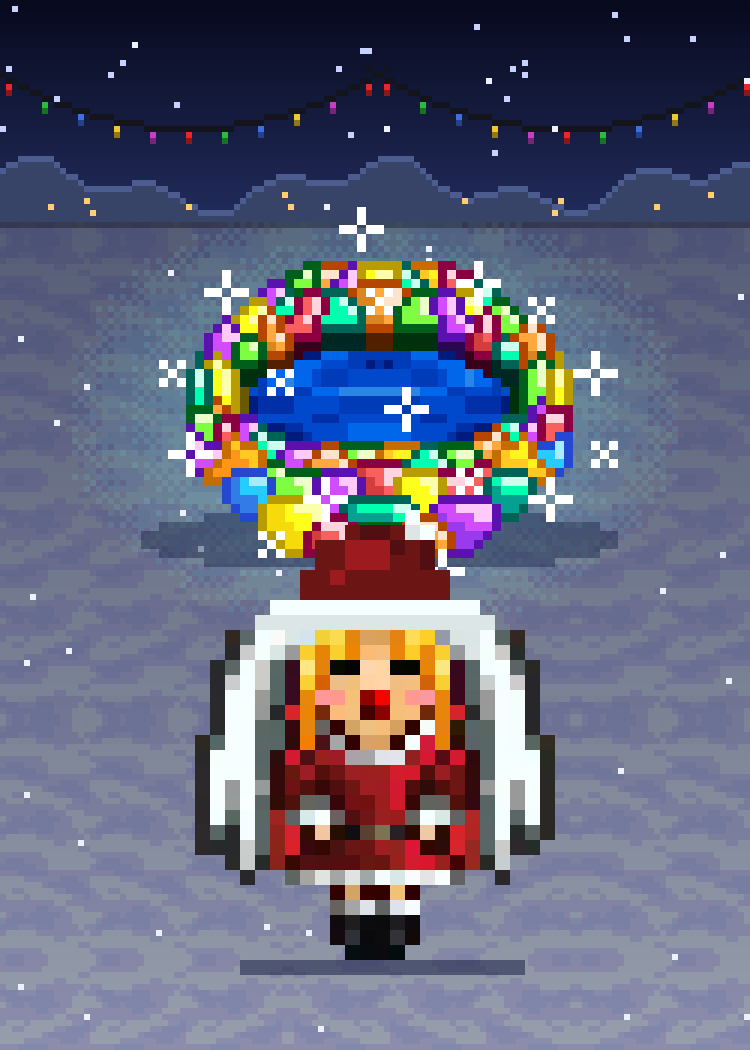
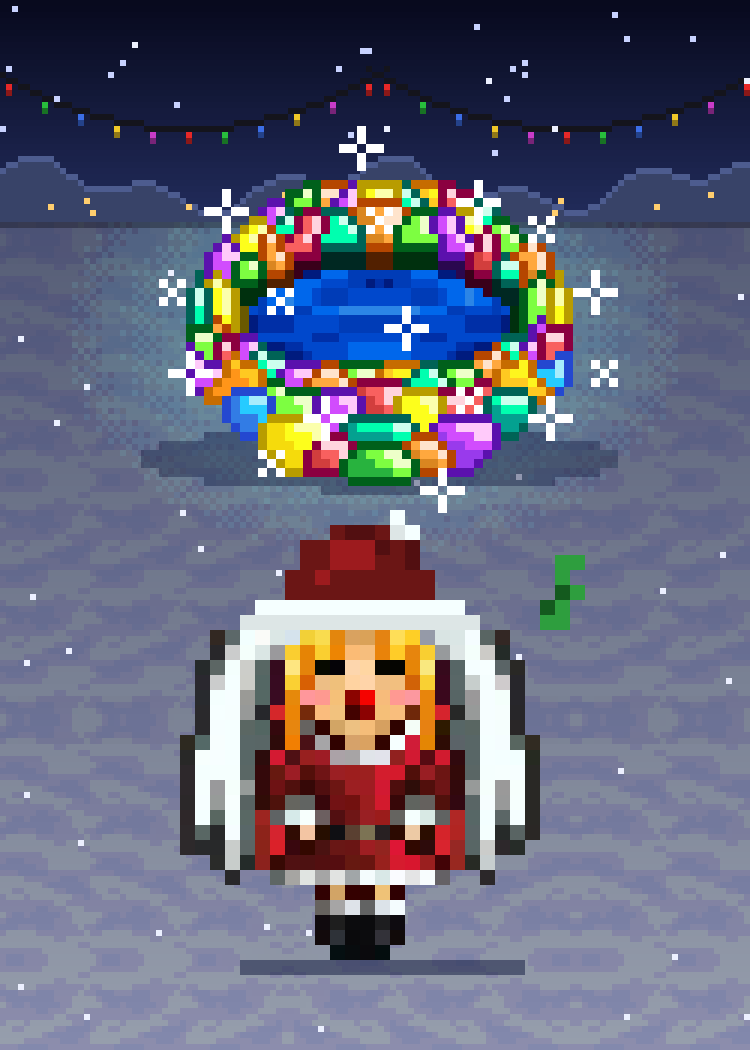
Runde 6: Überarbeitung nach Nutzer-Feedback (Zwischenstand)
Claude-Session: https://claude.ai/code/session_01TEnvTzH2xD44R6Unjv7vDo

Changed region(s): [[0.184, 0.1219, 0.828, 0.9143]]

diff --git a/data/sleeve-proposals/runde6/generator/s43_wheel_of_wisdom.py b/data/sleeve-proposals/runde6/generator/s43_wheel_of_wisdom.py
@@ -14,12 +14,12 @@ Quellen (alle Motive.xcf, Szene der Karte „Archibald, the Archmage“ = Sichtb
             439 „Archmage #1“ (Ring mit fünf Speichen) – die Rosette.
   Ebene 438 „Archmage #6“ – die fünf Gestalten, die auf der Karte (vergrößert, halbtransparent) in den fünf
             Feldern erscheinen; hier im Raster der Rosette, zu 85 % über das Glas gemalt.
-  Sichtbar #43 (Ebene 98), Ausschnitt x 240–256, y 184–200: Parkettkachel der Halle (16×16, periodisch).
-Selbst gezeichnet: Mauer der Halle, steinerne Fensterlaibung, Lichtschein, farbiger Lichtfleck am Boden,
+  Sichtbar #43 (Ebene 98), Ausschnitt x 240–256, y 184–200: Parkett der Halle – daraus die Farben der Dielen.
+Selbst gezeichnet: Mauer der Halle, steinerne Fensterlaibung, Dielenboden, farbiger Lichtfleck am Boden,
 Hinterleuchtung der Glasfelder, Kontaktschatten.
 
 Skalierung (Tiefenebenen):
-  Hintergrund (Mauer, Rosette 76×76 → 152×152, fünf Gestalten, Lichtschein)    – 2×-Raster (125×175)
+  Hintergrund (Mauer, Rosette 76×76 → 152×152, fünf Gestalten)                – 2×-Raster (125×175)
   Vordergrund (Archibald 25×31 → 125×155, Parkett, Lichtfleck)                 – 5×-Raster (50×70)
 """
 import math
@@ -89,17 +89,21 @@ dark_vignette(bg, strength=0.55, r0=0.3, cx=RCX, cy=RCY + 20)
 
 # Farben der fünf Felder (für den Lichtfleck am Boden)
 BEAMS = [((200, 200, 210), 0), ((230, 120, 60), 0), ((220, 70, 50), 0), ((70, 110, 200), 0), ((110, 200, 150), 0)]
-# weicher Lichtschein des Glases auf der Wand darunter
-glow(bg, RCX, RCY + R + 6, 34, (150, 120, 190), 0.25, ry=14, steps=2)
 
 # ================================================================== Vordergrund 5× (50×70)
 w5, h5 = grid(5)
 fg = rgba(w5, h5)
 FLOOR = 60                                   # Oberkante des Bodens (y 300)
-T = np.clip(tile[..., :3].astype(float) * 0.85, 0, 255).astype(np.uint8)   # Parkett, im Dämmer der Halle
+# Boden: dunkle Dielen in den Farben des Hallenparketts (Kachel aus der Szene: Mittelwert und Fugenfarbe)
+base = tile[..., :3].reshape(-1, 3).astype(float)
+c_mid = base.mean(0) * 0.9
+c_dark = base.min(0) * 0.8
+c_lite = np.clip(base.mean(0) * 1.15, 0, 255)
 for y in range(FLOOR, h5):
     for x in range(w5):
-        fg[y, x, :3] = T[(y - FLOOR) % 16, (x + 5) % 16]
+        r = y - FLOOR
+        seam = (r % 3 == 2) or ((x + (r // 3) * 5) % 9 == 0)
+        fg[y, x, :3] = (c_dark if seam else (c_lite if r % 3 == 0 else c_mid)).astype(np.uint8)
         fg[y, x, 3] = 255
 for x in range(w5):                          # Übergang Wand/Boden: Sockelleiste
     fg[FLOOR, x, :3] = (22, 16, 30)

diff --git a/data/sleeve-proposals/runde6/generator/s12_crystal_eve.py b/data/sleeve-proposals/runde6/generator/s12_crystal_eve.py
@@ -57,7 +57,7 @@ from PIL import Image
 _anim = np.array(Image.open('/home/user/PixelParties/data/hero-animations/mary-crestmas.png').convert('RGBA'))
 _f0 = _anim[:, 0:40].copy()
 _f0[..., 3] = np.where(_f0[..., 3] >= 128, 255, 0)
-mary = sorted(parts(_f0, dil=0), key=lambda p: -(p[..., 3] > 0).sum())[0]
+mary = sorted(parts(_f0, dil=1), key=lambda p: -(p[..., 3] > 0).sum())[0]
 _cache = os.path.join(os.path.dirname(os.path.abspath(__file__)), 'sprites6', 'o12_mary.png')
 Image.fromarray(mary).save(_cache)
 well = sprite('o12_well16', 'MotiveBritain', [16])        # Brunnen ohne Funkeln
@@ -86,7 +86,7 @@ def tex(src, h, w):
 
 
 # ================================================================== Geometrie
-WX3, WY3 = 42 - well.shape[1] // 2, 29                    # Brunnen im 3×-Raster (Canvas y 87)
+WX3, WY3 = 42 - well.shape[1] // 2, 20                    # Brunnen im 3×-Raster (Canvas y 60)
 WCX, WCY = 125, (WY3 + 17) * 3                            # Wassermitte (Canvas)
 MX5, MFEET5 = 25 - mary.shape[1] // 2, 63                 # Mary im 5×-Raster (Füße Canvas y 315)
 
